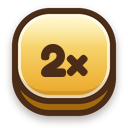
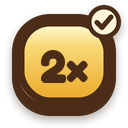
Smettbo-Abnahme Auto-Kampf: Fixliste, Tempo-aktiv mit Formsignal

Changed region(s): [[0.0625, 0.0312, 0.9688, 0.875], [0.3125, 0.3438, 0.6875, 0.6562]]

diff --git a/docs/autokampf/abnahme/FIXLISTE_PORYGON.md b/docs/autokampf/abnahme/FIXLISTE_PORYGON.md
@@ -1,0 +1,83 @@
+# Fixliste Auto-Kampf-UI für Porygon (Stand: main ec0bcd0 / index-DUg5eR7L.js, 20.11.2026)
+Hier stehen nur noch offene Punkte, nach Priorität. Maße in UI-px (1080er Raster). Belege: `ABNAHME.md`, Abschnitt „Re-Check ec0bcd0“.
+
+## Hoch
+**1. Ult-Schloss „ab Lv 25“ wird nie angezeigt** (`#ally-ult`, `#foe-ult`). Die Funktion, die `is-locked` setzt (direkt nach `Xd()`, setzt auch `.ult-lock b` und `.ult-ready`-Text), lässt das `hidden`-Attribut stehen, und `[hidden]{display:none}` gewinnt.
+```js
+const lock = S.querySelector('.ult-lock'), ready = S.querySelector('.ult-ready')
+if (lock) lock.hidden = !locked          // locked = !y
+if (ready) ready.hidden = !(y && E >= 5)
+```
+```css
+.ult-bar.small { min-width: max-content; }
+.ult-bar .ult-lock b, .ult-bar .ult-ready { white-space: nowrap; }
+```
+
+**2. Ansage-Karte `callout/ansage.png` wird von Kit-Regeln überschrieben** (`#battle-text.is-callout`, gesetzt in `g5()`). Die Regeln `.wx-chip,.battle-status{…!important}` gewinnen gegen das Inline-`border-image`. Diesen Block hinter die Kit-Regeln stellen:
+```css
+#battle-text.battle-status.is-callout {
+  border-style: solid !important; border-color: transparent !important;
+  border-width: 26px !important; border-radius: 36px !important;
+  border-image: url(battle_ui/callout/ansage.png) 48 52 52 52 fill / 48px 52px 52px 52px / 12px stretch !important;
+  background-color: rgba(255,250,240,.92) !important; background-clip: padding-box !important;
+  color: #4a2c17 !important; text-shadow: none !important; padding: 28px 36px !important;
+}
+```
+
+## Mittel
+**3. Status-Chip ohne Rahmen-Asset** (`.status-chip`, `#foe-status` / `#ally-status`).
+```css
+.status-chip {
+  border: 30px solid transparent; border-radius: 18px;
+  border-image: url(battle_ui/status/chip.png) 30 32 32 32 fill / 30px 32px 32px 32px / 6px stretch;
+  background: #fffaf0 padding-box; min-height: 64px; padding: 0 4px;
+}
+```
+
+**4. Tempo-aktiv-Grafik deployen.** `assets/battle_ui/tempo/*_aktiv.png` und `webp/tempo/*_aktiv.webp` sind neu gezeichnet: eingedrückt, dunkler Innenring, Häkchen. Dateinamen sind gleich, am Code ändert sich nichts. Nur die Dateien übernehmen.
+
+**5. Fokuskampf zeigt zwei Tempo-Steuerungen und den Wächter-Knopf.** Die Fokusleiste liegt außerdem über dem eigenen Monster.
+```css
+.battle:has(#focus-bar:not([hidden])) .speed,
+.battle:has(#focus-bar:not([hidden])) [data-act=challenge] { display: none; }
+.battle:has(#focus-bar:not([hidden])) .combatant.ally { margin-bottom: 300px; } /* oder: Fokusleiste unter die Bühne */
+```
+
+**6. Logzeile überdeckt „Wächter herausfordern“** (`.battle-log` mit `bottom:12px` gegen `.challenge-fab`).
+```css
+.battle-log { bottom: 168px; }  /* über dem Knopf; oder der Knopf rückt nach oben */
+.battle:has(#focus-bar:not([hidden])) .battle-log { bottom: 12px; } /* im Fokus ist der Knopf ausgeblendet (Punkt 5) */
+```
+
+**7. Kopfbereich: Ansage über Gegnername und HP, Wetterzeile abgeschnitten** (`#battle-text`, `.wx-stack`, `.wx-chip`). Der Inhalt der Wetterzeile ist 662 css-px breit bei 369 verfügbar.
+```css
+.wx-stack { width: auto; right: 16px; }
+.wx-stack .wx-chip { white-space: normal; max-width: 100%; }
+.battle:has(#focus-bar:not([hidden])) .combatant.foe { margin-top: 140px; } /* Gegnerkarte unter die Ansage */
+```
+
+**8. Wetter-Ansage ohne Grund** (`.wx-announce`). Weißer Text auf hellem Himmel.
+```css
+.wx-announce { padding: 8px 20px; border-radius: 18px; background: rgba(8,12,24,.78);
+  -webkit-text-stroke: 3px #1a1208; paint-order: stroke fill; }
+```
+
+**9. „ULT bereit“ ohne Kontur** (`.ult-bar .ult-ready`, sichtbar nach Fix 1).
+```css
+.ult-bar .ult-ready { -webkit-text-stroke: 3px #4a2c17; paint-order: stroke fill; }
+```
+
+## Niedrig
+**10. Log-Blatt scheint durch** (`.battle-log-sheet`), Hub-Text ist dahinter lesbar.
+```css
+.battle-log-sheet { background: #080c18; }
+```
+Zusätzlich die Zeile „Wartet“ ohne Status-Icon (oder mit `log/schild`) ausgeben. Das passiert dort, wo das Log `ql(icon)` wählt.
+
+**11. Warum-Karte:** Der Knopf „Kampflog“ ist ungestylt (Browser-Standard). Bei 3 Tipps ist die Karte 760 css-px hoch.
+```css
+.why-card button[data-act*=log] { /* Kit wie .kit-btn */ border-image-source: var(--kit-button-secondary-normal) !important; }
+.why-card .why-row.is-tip ~ .why-row.is-tip ~ .why-row.is-tip { display: none; } /* höchstens 2 Tipps, oder in vM() kürzen */
+```
+
+**12. (Info)** Für die eigene Karte ist eine große Ult-Leiste vorhanden (`ult/seg_*_l.png`, `ult/bahn_l.png`), derzeit ungenutzt. Wird sie verwendet: `.ult-bar:not(.small) .ult-seg{width:60px;height:60px;margin:-10px}`.
